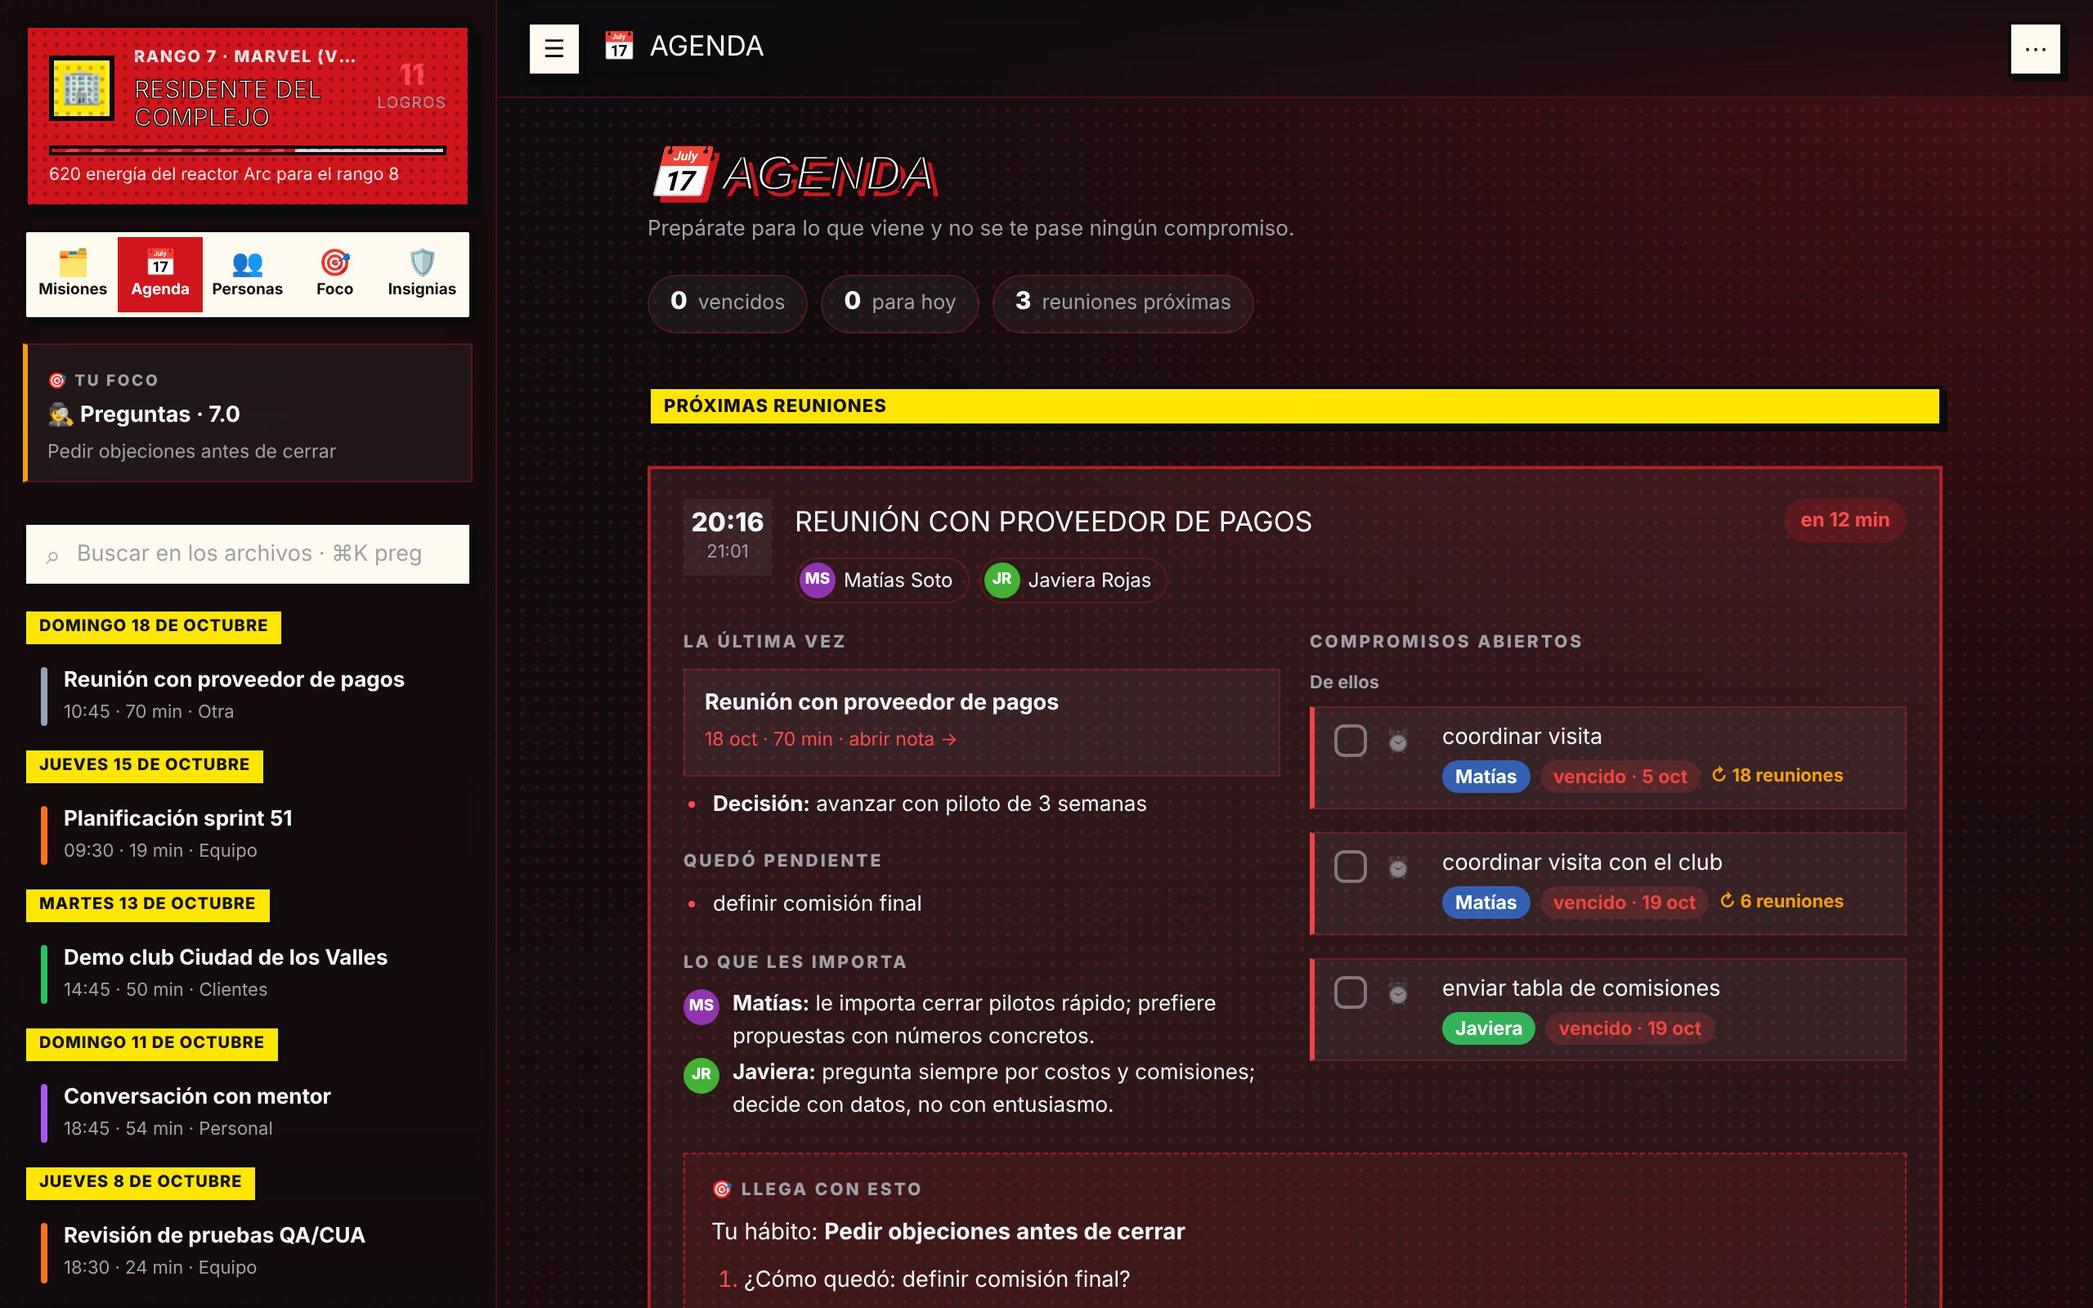
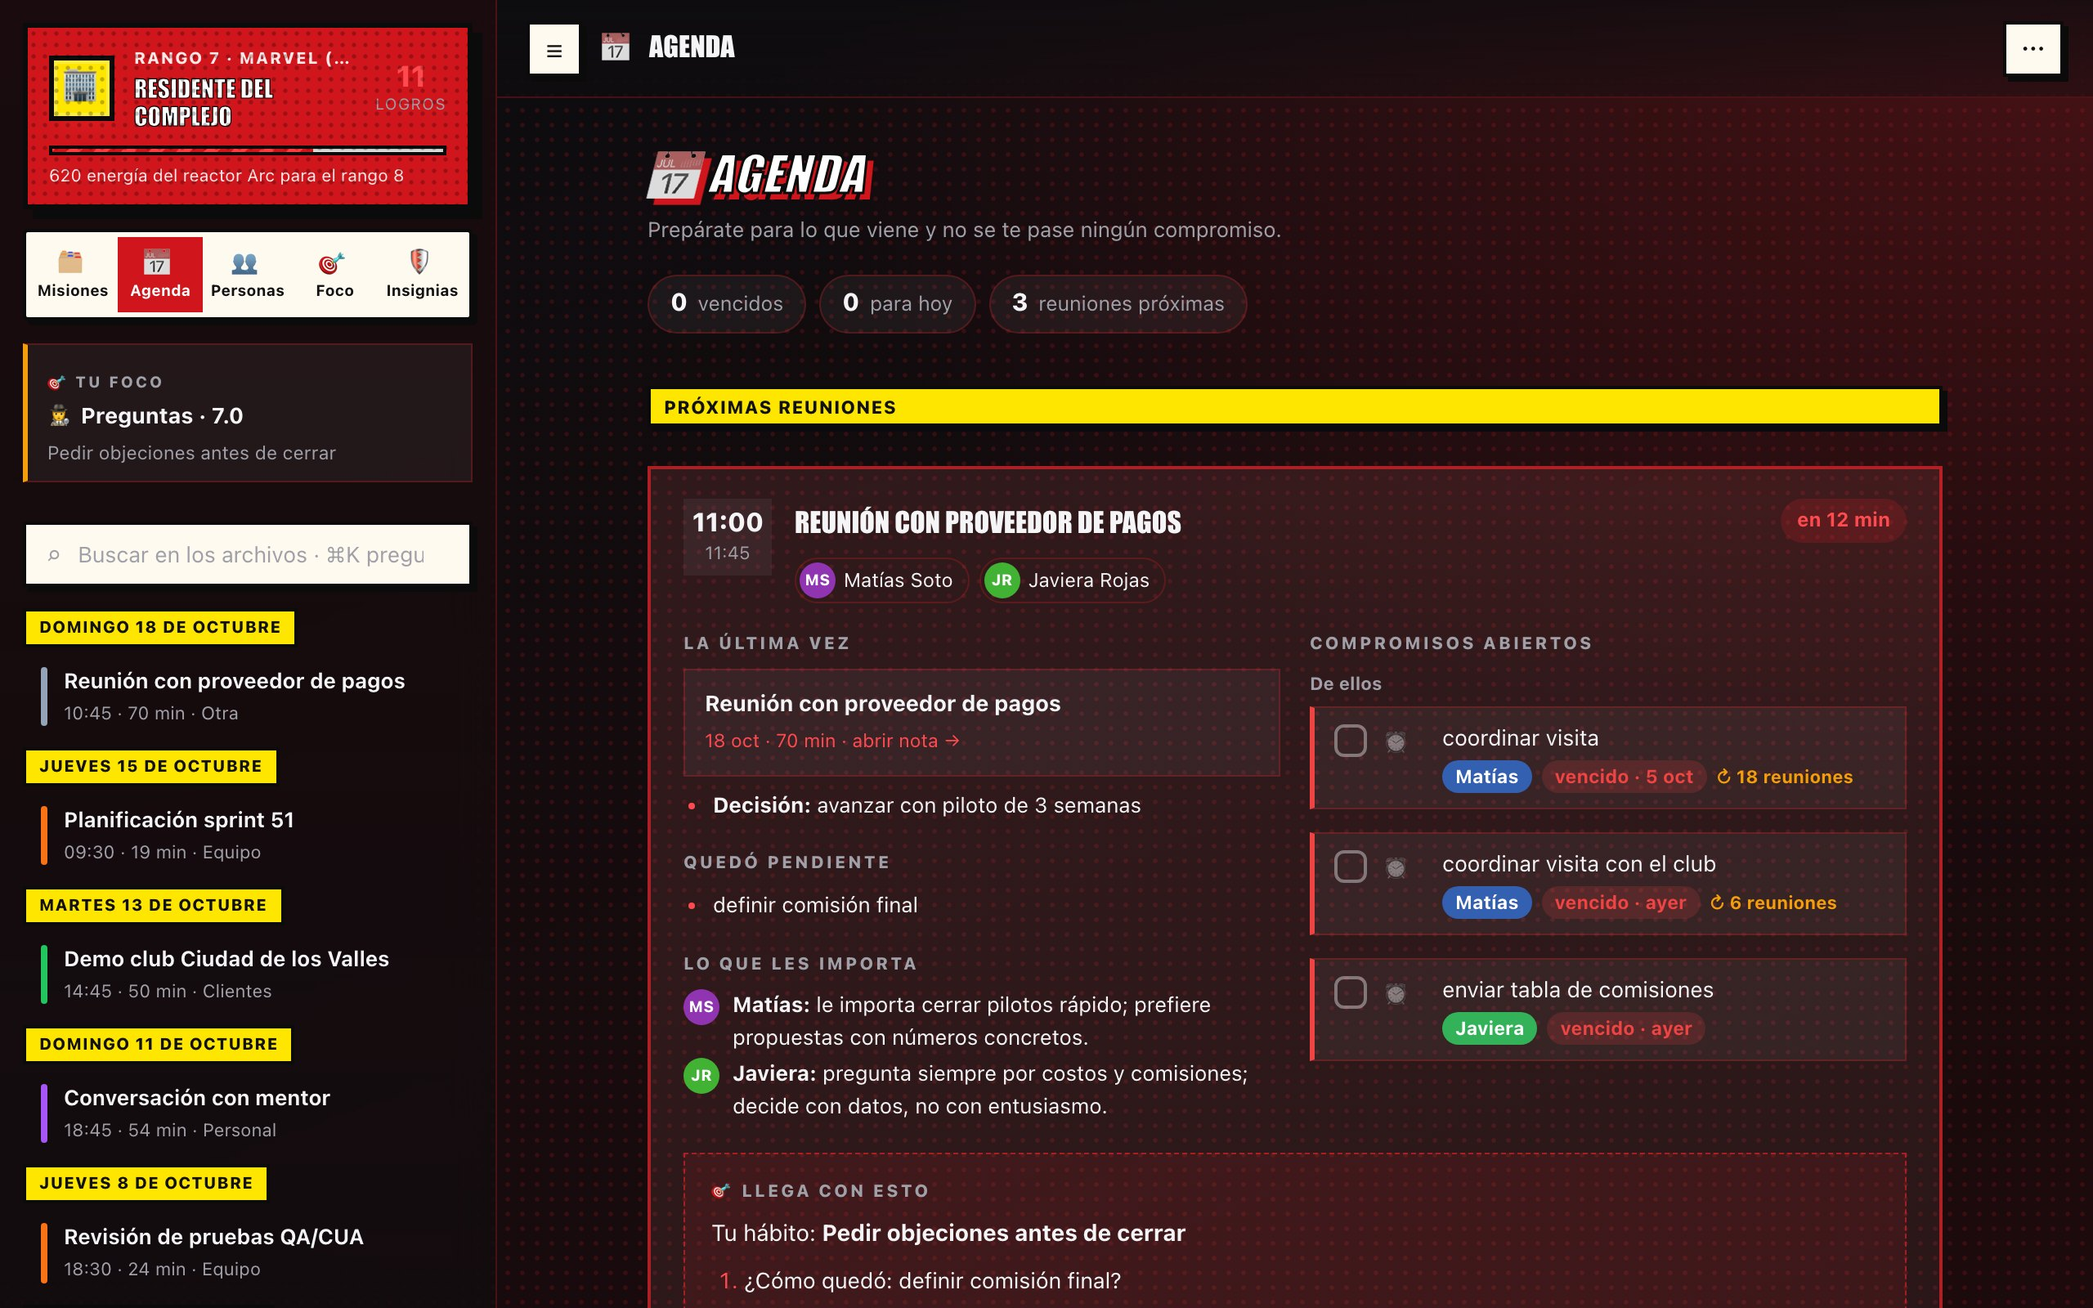
Presentación al día: capturas actuales, funciones que faltaban y SEO de la guía
- Capturas de docs/img rehechas desde la vista previa (datos ficticios): desempeño, agenda y logro, el desempeño en inglés y la imagen para compartir de 1200×630 (traían la barra de la nota de antes, sin «Enviar»).
- herramientas/capturas.mjs las rehace con un comando (hora fija, sin red), para que no vuelvan a quedar atrás.
- README y página: «Corrige con tu IA» y «Tu foco y tu semana», que la app ya hacía; texto alternativo en las capturas del README y lista de funciones en la sección en inglés.
- README: publicar una versión es subir la versión en Info.plist y package.json a main.
- ia.html con su tarjeta de Twitter completa y og:image:alt; JSON-LD con las funciones nuevas; sitemap con lastmod; tamaño en las imágenes de la página.
- AGENTS.md y CONTRIBUTING.md mencionan capturas.mjs.

Claude-Session: https://claude.ai/code/session_01KpU2auJ7Z8eHTqueYHJNZY

diff --git a/docs/index.html b/docs/index.html
@@ -56,6 +56,10 @@
    "Notas, decisiones y compromisos",
    "Feedback de comunicación con citas",
    "Coach en vivo",
+   "Agenda con compromisos y fichas de personas",
+   "Preguntas a tus reuniones con el minuto exacto",
+   "Corregir la nota en palabras con tu IA",
+   "Resumen semanal de tendencias",
    "Universos con rangos y logros",
    "Notas en Markdown en tu propio Git"
   ]
@@ -543,18 +547,18 @@ participantes: ["Matías", "Carla"]
   <div class="duo"><div class="duo-img"><img src="img/notas.jpg" alt="Notas de una reunión en Minuta" loading="lazy" width="2560" height="1600"></div>
     <div><h3><span data-es>Notas que sí sirven</span><span data-en>Notes that actually help</span></h3>
       <p><span data-es>Temas, decisiones, pendientes y próximos pasos con responsable y fecha. Quién dijo qué, con las voces separadas. Y un mensaje listo para enviar a los participantes, solo con los hechos.</span><span data-en>Topics, decisions, open items and next steps with owner and date. Who said what, with voices separated. And a message ready to send to participants, with just the facts.</span></p>
-      <ul class="lista-ok"><li><span data-es>Detecta Teams, Zoom, Meet o Slack y te ofrece grabar; en el panel eliges el tipo de reunión con las teclas 1–9</span><span data-en>Detects Teams, Zoom, Meet or Slack and offers to record; in the panel, keys 1–9 pick the meeting type</span></li><li><span data-es>Pregúntale a tus reuniones: responde citando el minuto exacto</span><span data-en>Ask your meetings: it answers citing the exact minute</span></li><li><span data-es>Agenda con compromisos y fichas de cada persona</span><span data-en>Agenda with commitments and a card for each person</span></li></ul></div></div>
-  <div class="duo al-reves" style="margin-top:72px"><div class="duo-img"><img src="img/desempeno.jpg" alt="Tu desempeño en una reunión" loading="lazy"></div>
+      <ul class="lista-ok"><li><span data-es>Detecta Teams, Zoom, Meet o Slack y te ofrece grabar; en el panel eliges el tipo de reunión con las teclas 1–9</span><span data-en>Detects Teams, Zoom, Meet or Slack and offers to record; in the panel, keys 1–9 pick the meeting type</span></li><li><span data-es>Pregúntale a tus reuniones: responde citando el minuto exacto</span><span data-en>Ask your meetings: it answers citing the exact minute</span></li><li><span data-es>Agenda con compromisos y fichas de cada persona</span><span data-en>Agenda with commitments and a card for each person</span></li><li><span data-es>¿Algo quedó mal? Díselo a tu IA en palabras y corrige la nota; lo recuerda para las próximas</span><span data-en>Something wrong? Tell your AI in plain words and it fixes the note; it remembers next time</span></li></ul></div></div>
+  <div class="duo al-reves" style="margin-top:72px"><div class="duo-img"><img src="img/desempeno.jpg" alt="Tu desempeño en una reunión" loading="lazy" width="2560" height="1600"></div>
     <div><h3><span data-es>Mejora reunión a reunión</span><span data-en>Improve meeting by meeting</span></h3>
       <p><span data-es>Cada reunión te deja un veredicto en una frase, lo que te costó con la cita exacta y un solo hábito para la próxima. Minuta revisa si lo cumpliste.</span><span data-en>Each meeting leaves you a one-line verdict, what cost you with the exact quote and a single habit for next time. Minuta checks whether you kept it.</span></p>
-      <ul class="lista-ok"><li><span data-es>Claridad, escucha, preguntas y cierre</span><span data-en>Clarity, listening, questions and closing</span></li><li><span data-es>Muletillas, monólogos e interrupciones medidos del audio</span><span data-en>Fillers, monologues and interruptions measured from audio</span></li><li><span data-es>Coach en vivo y gimnasio para ensayar por voz</span><span data-en>Live coach and a gym to rehearse out loud</span></li></ul></div></div>
+      <ul class="lista-ok"><li><span data-es>Claridad, escucha, preguntas y cierre</span><span data-en>Clarity, listening, questions and closing</span></li><li><span data-es>Muletillas, monólogos e interrupciones medidos del audio</span><span data-en>Fillers, monologues and interruptions measured from audio</span></li><li><span data-es>Coach en vivo y gimnasio para ensayar por voz</span><span data-en>Live coach and a gym to rehearse out loud</span></li><li><span data-es>Tus puntajes en el tiempo y un resumen semanal de tus tendencias</span><span data-en>Your scores over time and a weekly summary of your trends</span></li></ul></div></div>
 </div></section>
 
 <section id="universos"><div class="ancho">
   <div class="sec-cab"><h2><span data-es>Mejorar no tiene por qué ser aburrido</span><span data-en>Getting better doesn't have to be boring</span></h2>
     <p><span data-es>Subes de rango, desbloqueas logros y los personajes de tu universo favorito te dicen cómo te fue. Cuatro vienen incluidos; el resto se descarga gratis del catálogo de la comunidad, o crea el tuyo.</span><span data-en>You rank up, unlock achievements and characters from your favorite universe tell you how you did. Four are included; the rest are free downloads from the community catalog, or create your own.</span></p></div>
   <div class="universos" id="universos-lista"></div>
-  <div class="duo al-reves" style="margin-top:56px"><div class="duo-img"><img src="img/logro.jpg" alt="Logro desbloqueado" loading="lazy"></div>
+  <div class="duo al-reves" style="margin-top:56px"><div class="duo-img"><img src="img/logro.jpg" alt="Logro desbloqueado" loading="lazy" width="2560" height="1600"></div>
     <div><h3><span data-es>Logros que premian lo que importa</span><span data-en>Achievements that reward what matters</span></h3>
       <p><span data-es>No por asistir: por cerrar con fecha, dejar terminar a los demás o cumplir tu hábito tres reuniones seguidas. Cada universo lo celebra a su manera.</span><span data-en>Not for showing up: for closing with a date, letting others finish or keeping your habit three meetings in a row. Each universe celebrates its own way.</span></p></div></div>
 </div></section>

diff --git a/docs/ia.html b/docs/ia.html
@@ -17,7 +17,11 @@
 <meta property="og:description" content="Claude Code, Codex o Antigravity CLI: qué son, cuál elegir y cómo dejarlos listos en cinco minutos.">
 <meta property="og:image" content="https://minuta-app.github.io/minuta/img/compartir.png">
 <meta property="og:image:width" content="1200"><meta property="og:image:height" content="630">
+<meta property="og:image:alt" content="Minuta: notas de reuniones con IA, privadas y gratis">
 <meta name="twitter:card" content="summary_large_image">
+<meta name="twitter:title" content="Tu IA para Minuta, explicada sin tecnicismos">
+<meta name="twitter:description" content="Claude Code, Codex o Antigravity CLI: qué son, cuál elegir y cómo dejarlos listos en cinco minutos.">
+<meta name="twitter:image" content="https://minuta-app.github.io/minuta/img/compartir.png">
 <script type="application/ld+json">
 {
  "@context": "https://schema.org",

diff --git a/README.md b/README.md
@@ -57,6 +57,8 @@ pegando la dirección iCal secreta de Google Calendar u Outlook.
 | 🔔 **Detecta tus reuniones** | Te avisa al empezar (un clic y graba) y te pregunta si cortar cuando termina. En el panel eliges el tipo de reunión con las teclas 1–9, antes o durante la grabación. Puedes grabar otra mientras la anterior se procesa. |
 | 📝 **Notas** | Temas, decisiones, pendientes y próximos pasos con responsable y fecha. Quién dijo qué, con las voces separadas. |
 | 🎯 **Feedback** | Veredicto en una frase, lo que te costó con la cita exacta, qué probar la próxima vez, puntajes y un hábito por reunión. |
+| ✎ **Corrige con tu IA** | Dile en palabras qué está mal («Matías no es el PO, es el Scrum Master») y tu IA arregla la nota; guarda una copia de la anterior y lo recuerda para las próximas reuniones. |
+| 📈 **Tu foco y tu semana** | Tus puntajes reunión a reunión, antes vs. ahora, horas en reuniones por semana y un resumen semanal de tus tendencias que escribe tu IA. |
 | ⏱ **Coach en vivo** | Cuánto llevas hablando, tu % de habla y si cortaste a alguien, mientras pasa. |
 | 📅 **Agenda y personas** | Prepara cada reunión con lo pendiente y los compromisos abiertos; los compromisos se marcan una vez y quedan al día en todas partes. |
 | 🥊 **Gimnasio** | Ensaya hablando: la IA hace de la otra persona y te evalúa. |
@@ -65,7 +67,7 @@ pegando la dirección iCal secreta de Google Calendar u Outlook.
 | 🪐 **Universos** | Rangos y logros con la estética que te guste. 4 incluidos, más en el [catálogo](https://github.com/minuta-app/minuta-catalogo), o crea el tuyo. |
 | 🌐 **Idiomas** | Español e inglés incluidos; portugués, francés y otros se descargan. |
 
-<p align="center"><img src="docs/img/desempeno.jpg" width="49%"> <img src="docs/img/agenda.jpg" width="49%"></p>
+<p align="center"><img src="docs/img/desempeno.jpg" width="49%" alt="Tu desempeño en una reunión: veredicto, puntajes y hábito para la próxima (datos ficticios)"> <img src="docs/img/agenda.jpg" width="49%" alt="Agenda: la próxima reunión con lo pendiente y los compromisos abiertos (datos ficticios)"></p>
 
 ## Privacidad
 
@@ -157,8 +159,9 @@ cd ui && python3 -m http.server 8765  # vista previa de la interfaz con datos fi
 - `app/` app de macOS en Swift (SwiftPM) · `bin/` procesamiento en Python (solo biblioteca estándar) · `ui/` interfaz web ·
   `universos/` universos incluidos · `herramientas/` empaquetado y revisión de privacidad · `docs/` sitio.
 - Con `~/minuta` como checkout git, la app usa ese código y se actualiza con `git pull`.
-- Publicar una versión: sube la versión en `app/Info.plist` y `git tag vX.Y.Z && git push --tags`; GitHub Actions compila y crea la Release.
+- Publicar una versión: sube la versión en `app/Info.plist` y `escritorio/package.json` y súbelo a `main`; GitHub Actions compila Mac, Windows y Linux y crea la Release.
 - La guía completa para contribuir (arquitectura, reglas, agentes) está en [`AGENTS.md`](AGENTS.md).
+- **Capturas:** `node herramientas/capturas.mjs` rehace las de `docs/img` (y la imagen para compartir) desde la vista previa, con los datos ficticios.
 - **Pruebas:** `bash pruebas/correr.sh` corre lo mismo que GitHub revisa en cada cambio (sintaxis, privacidad, contrato entre la
   interfaz y las apps, pruebas de Python y de la interfaz en español e inglés con todos los universos). `python3 pruebas/evaluar_ia.py --real`
   prueba el prompt de las notas con tu IA y transcripciones ficticias.
@@ -211,6 +214,13 @@ Windows (PowerShell): `irm https://raw.githubusercontent.com/minuta-app/minuta/m
 or download from the [latest release](https://github.com/minuta-app/minuta/releases/latest). Requires one of Claude Code, Codex or Antigravity CLI with your own account ([setup guide](https://minuta-app.github.io/minuta/ia.html));
 Mac needs Apple silicon and macOS 15+, Windows 10/11 64-bit, Linux x86_64 with PulseAudio or PipeWire.
 The interface ships in Spanish and English (more languages downloadable). The code and comments are in Spanish.
+
+**What it does:** detects Teams, Zoom, Meet or Slack meetings and offers to record (no bot joins the call) · notes with topics, decisions
+and next steps with owner and date, with voices separated · feedback with a one-line verdict, exact quotes, scores and one habit for next
+time · live coach (talk time, interruptions) · agenda that prepares each meeting with open commitments, plus a card for each person ·
+a practice gym where your AI plays the other person · ⌘K to ask your meetings, citing the exact minute · a facts-only message for
+participants (never your private feedback) · fix a note by telling your AI what's wrong · your scores over time and a weekly summary ·
+ranks and achievements in universes (Star Wars, Marvel, Harry Potter, movies; more in the [catalog](https://github.com/minuta-app/minuta-catalogo), or create your own).
 
 Security issues: please report them privately, see [SECURITY.md](SECURITY.md).
 

diff --git a/AGENTS.md b/AGENTS.md
@@ -25,12 +25,12 @@ Tiene gamificación con "universos" (Star Wars, Marvel…), agenda con compromis
 | `bin/` | Python: `procesar.py` (pipeline principal y prompt de notas), `perfil.py` (perfil compartido, `limpiar_nombre`, `hechos`), `corregir.py` (corrige una nota con la IA según una instrucción en palabras; guarda copia en `~/minuta/respaldos/` y lo aprendido en `personas_conocidas.json`, que `procesar.py` usa en las próximas notas), `limpiar_notas.py` (ordena nombres de participantes en notas viejas), `redactar.py` (mensaje para participantes), `gimnasio.py`, `preguntar.py` (⌘K), `semana.py`, `universo.py` (creador de universos), `logros.py`, `recalcular_interrupciones.py`. |
 | `ui/` | Interfaz web única (`app.js` + CSS) que usan la ventana y el panel de la barra de menú. `demo.json` = datos ficticios para la vista previa en navegador. `idiomas/en.json` = inglés incluido. |
 | `universos/` | Los 4 universos incluidos (cine, starwars, harrypotter, marvel). El resto está en el catálogo. |
-| `herramientas/` | `revisar_privacidad.sh` (auditoría antes de commitear) y `empaquetar.sh` (arma `dist/Minuta.app` + `dist/Minuta-macOS.zip` y su `.sha256`). |
+| `herramientas/` | `revisar_privacidad.sh` (auditoría antes de commitear), `empaquetar.sh` (arma `dist/Minuta.app` + `dist/Minuta-macOS.zip` y su `.sha256`) y `capturas.mjs` (rehace las capturas de `docs/img` y la imagen para compartir de 1200×630 desde la vista previa, con `demo.json` y hora fija). |
 | `build.sh` | Empaqueta e instala en `~/Applications/Minuta.app`. **Cierra la app** (ver Despliegue). |
 | `instalar.sh` | Instalador de un comando para usuarios (`curl … \| bash`): baja la última Release, verifica SHA-256 e instala. Sin Python ni Homebrew. |
 | `.github/workflows/` | `revisar.yml` (pruebas en cada cambio) y `publicar.yml` (al subir la versión en Info.plist: compila Mac, Windows y Linux y publica la Release). |
 | `pruebas/` | Pruebas automáticas (ver "Pruebas"). |
-| `docs/` | Página pública (GitHub Pages): `index.html` (español/inglés, detecta el sistema del visitante), `ia.html` (guía para instalar Claude Code, Codex o Gemini CLI) y capturas en `docs/img` hechas con `demo.json`. |
+| `docs/` | Página pública (GitHub Pages): `index.html` (español/inglés, detecta el sistema del visitante), `ia.html` (guía para instalar Claude Code, Codex o Gemini CLI) y capturas en `docs/img` hechas con `demo.json` (`node herramientas/capturas.mjs`; míralas antes de subirlas). `sitemap.xml` lista cada página. |
 | `CHANGELOG.md` | Lo que cambia para quien usa la app, en palabras simples (ver «Lo que rodea a un cambio»). |
 | `escritorio/` | App de **Windows y Linux** (Electron): misma `ui/` y mismo `bin/`. Ver "Windows y Linux" abajo. |
 | `instalar.ps1` | Instalador de un comando para Windows (`irm … \| iex`). `instalar.sh` sirve para Mac y Linux. |

diff --git a/CONTRIBUTING.md b/CONTRIBUTING.md
@@ -19,7 +19,7 @@ Minuta es gratis y abierta, y la hacemos entre todos. Hay lugar para cualquiera,
 2. Haz un fork, una rama y tu cambio. La sección "Desarrollo" del [README](README.md#desarrollo) explica cómo correr la app.
 3. Corre `bash pruebas/correr.sh` (lo mismo que revisa GitHub en cada cambio).
 4. Si tu cambio se nota (una función nueva, otra forma de hacer algo, otra pantalla), deja al día lo que lo cuenta: el
-   README, la página (`docs/`), las capturas y [`CHANGELOG.md`](CHANGELOG.md). Si no sabes bien qué tocar, dilo en el pull
+   README, la página (`docs/`), las capturas (`node herramientas/capturas.mjs`) y [`CHANGELOG.md`](CHANGELOG.md). Si no sabes bien qué tocar, dilo en el pull
    request y lo completamos nosotros.
 5. Abre un pull request contando qué cambia para quien usa Minuta y cómo lo probaste.
 
@@ -60,7 +60,7 @@ Al participar aceptas el [código de conducta](CODE_OF_CONDUCT.md).
 - **Code (with or without AI):** read [`AGENTS.md`](AGENTS.md) (works for humans and any coding AI), fork, branch, run
   `bash pruebas/correr.sh` and open a pull request. The code and its comments are in Spanish; UI text needs its English entry in
   `ui/idiomas/en.json`; never commit personal data.
-  If your change is visible, also update the README, the page (`docs/`), screenshots and `CHANGELOG.md`, or say so in the
+  If your change is visible, also update the README, the page (`docs/`), screenshots (`node herramientas/capturas.mjs`) and `CHANGELOG.md`, or say so in the
   pull request and we'll do it.
 - **Review:** everything goes through a pull request and a maintainer merges it. We check tests, privacy and the note format;
   We also check that the README, the page and the docs still describe the app as it is.
